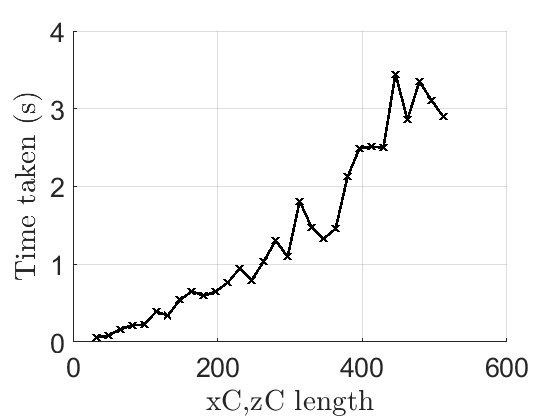
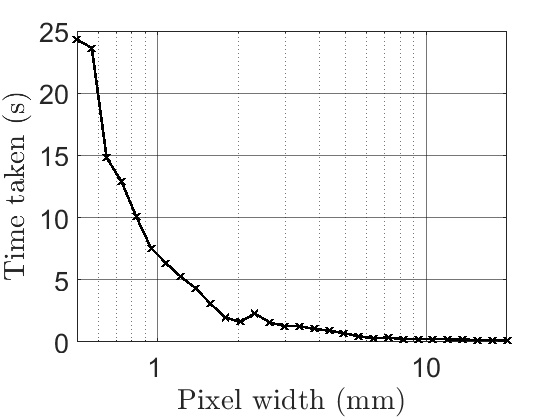
changed timing test to be based on pixel width

diff --git a/main.m b/main.m
@@ -238,22 +238,27 @@ if(perform_timing_test)
 
     % vector of "N" to measure time taken
     Nt = 30;
-    N_tests = linspace(32, 512, Nt);
+    pixel_widths = logspace(log10(2e-2), log10(0.5e-3), Nt);
     times = zeros(1,Nt);
     progressbar('Timing test using manual migration');
     for ii = 1:Nt
         % function prototype
-        % I = Bscan_migration_v3(B, h, er, t, x, tx_pos, rx_pos, xQ, zQ, progress)    
-        xC = linspace(0,max(x),N_tests(ii));
-        zC = linspace(1e-3,40e-2,N_tests(ii));
+        % I = Bscan_migration_v3(B, h, er, t, x, tx_pos, rx_pos, xQ, zQ, progress)  
+        xC = 0:pixel_widths(ii):max(x);
+        zC = 1e-3:pixel_widths(ii):40e-2;
         tic;
         I = Bscan_migration_v3(D, h, er, t, x, tx_pos, rx_pos, xC, zC, 0);
         times(ii)=toc;
         progressbar(ii/Nt);
     end
     
-    figure(); hold on; grid on;
-    plot(N_tests,times,'kx-');
-    xlabel('xC,zC length');
+    figure(); 
+    semilogx(pixel_widths.*1e3,times,'kx-'); hold on; grid on;
+    xlabel('Pixel width (mm)');
     ylabel('Time taken (s)');
+    set(gca,'XTickLabel',get(gca,'xtick'));
+    aa=gca;
+    aa.GridColor=[0.1 0.1 0.1];
+    aa.GridAlpha=0.6;
+    aa.MinorGridAlpha=0.6;
 end
